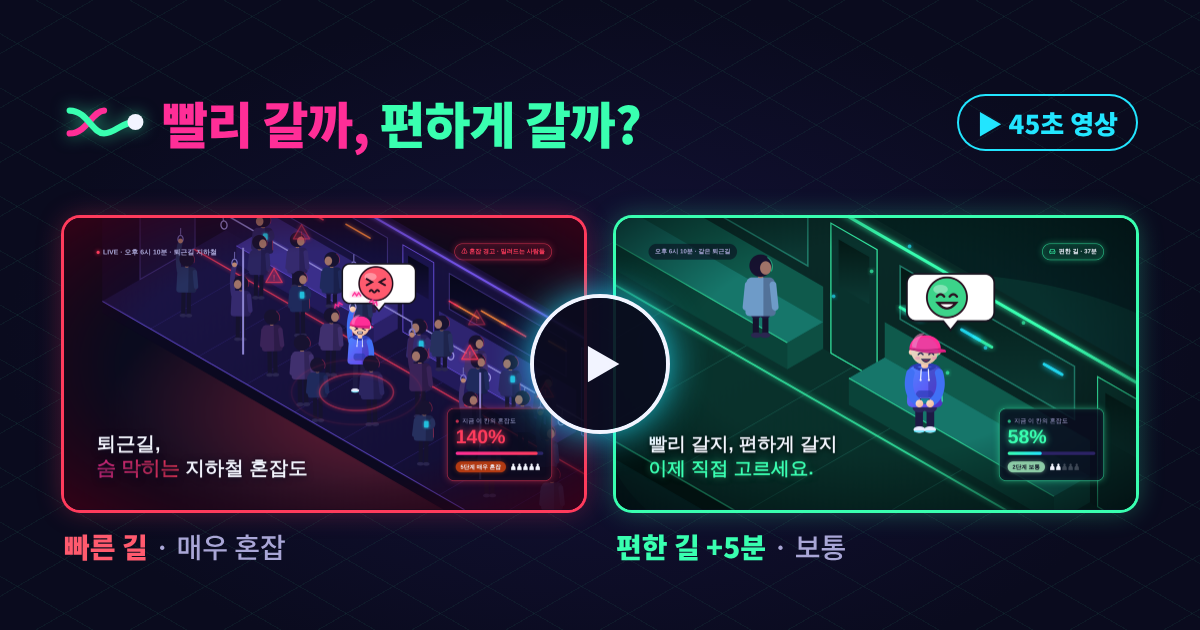
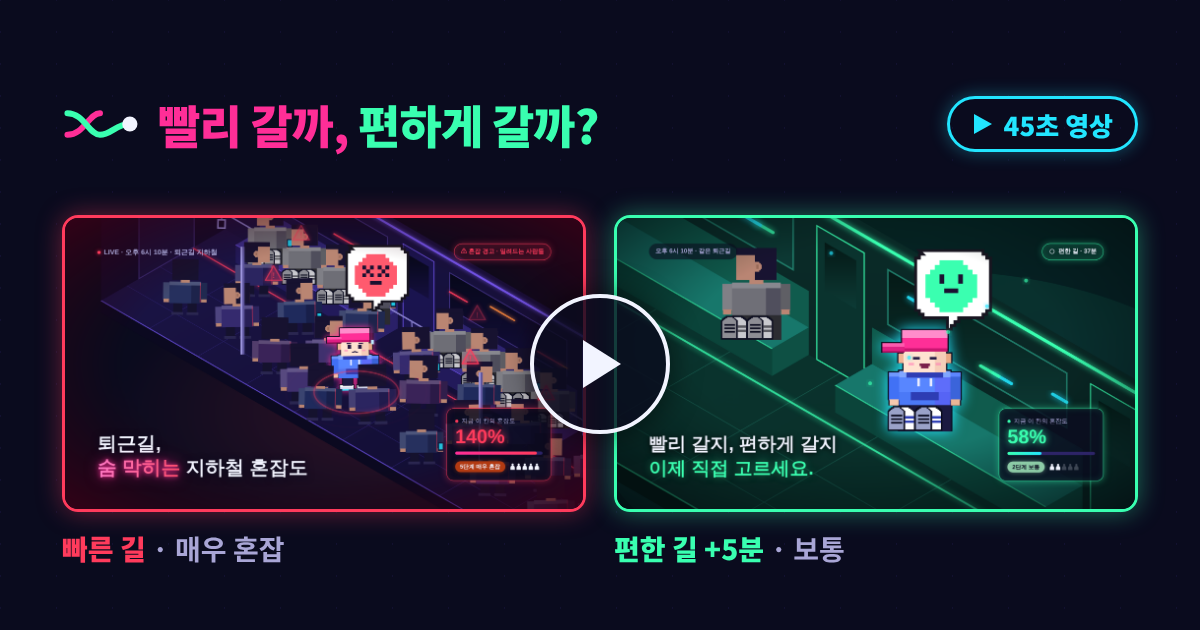
feat: 노선도에서 역 고르기

diff --git a/frontend/src/components/route/RouteMap.jsx b/frontend/src/components/route/RouteMap.jsx
@@ -1,0 +1,324 @@
+import { useEffect, useLayoutEffect, useRef, useState } from "react";
+import MAP from "../../data/metroMap.json";
+
+// 노선도에서 역 고르기
+//  - 처음에는 1~8호선 전체. 호선 칩을 누르면 그 노선만 선명하게 남고 화면이 그 노선에 맞춰집니다.
+//  - 노선을 고르면 환승역에서 갈아탈 노선이 한 칸만 선명한 꼬리로 보입니다.
+//  - 역을 누르면 「여기서 출발 / 여기로 도착」 창이 뜨고, 누르면 onPick("from" | "to", 역 이름)을 부릅니다.
+//  - 확대·축소: 버튼, 마우스 휠, 두 손가락. 이동: 끌기.
+//  노선도 좌표(metroMap.json)는 역 좌표 공공데이터로 배치를 잡고 꺾는 역만 직접 정해 만든 고정 파일입니다.
+
+const LINES = Object.keys(MAP.lines);
+const PAD = 0.6; // 범위 둘레 여백 (노선도 칸)
+const FS = 0.34; // metroMap.json의 이름 자리(label)를 계산한 글자 크기 (칸)
+
+// 범위 b=[x0, y0, x1, y1]이 화면(size: 가로·세로 px)에 꽉 차는 보기 영역.
+//  좌우 56px·위아래 28px를 비워 두어, 휴대폰처럼 좁은 화면에서도 끝 역 이름이 잘리지 않게 합니다.
+function fit(b, size, mx = 56, my = 28) {
+  const bw = b[2] - b[0] + PAD * 2, bh = b[3] - b[1] + PAD * 2;
+  const s = Math.max(bw / Math.max(1, size.w - mx * 2), bh / Math.max(1, size.h - my * 2)); // 1px = s칸
+  const w = size.w * s, h = size.h * s;
+  return { x: (b[0] + b[2]) / 2 - w / 2, y: (b[1] + b[3]) / 2 - h / 2, w, h };
+}
+
+export default function RouteMap({ onPick }) {
+  const box = useRef(null);
+  const svg = useRef(null);
+  const [size, setSize] = useState({ w: 800, h: 480 });
+  const [line, setLine] = useState(null); // null = 전체
+  const [view, setView] = useState(null);
+  const [picked, setPicked] = useState(null);
+  const pointers = useRef(new Map());
+  const gesture = useRef(null);
+  const moved = useRef(false);
+
+  // 화면 크기 재기
+  useLayoutEffect(() => {
+    const el = box.current;
+    const measure = () => setSize({ w: el.clientWidth, h: el.clientHeight });
+    measure();
+    const ro = new ResizeObserver(measure);
+    ro.observe(el);
+    return () => ro.disconnect();
+  }, []);
+
+  const home = fit(line ? MAP.lines[line].bounds : MAP.bounds, size);
+  // 노선을 바꾸거나 화면 비율이 바뀌면 그 범위에 맞춤
+  useEffect(() => {
+    setView(fit(line ? MAP.lines[line].bounds : MAP.bounds, size));
+    setPicked(null);
+    // eslint-disable-next-line react-hooks/exhaustive-deps
+  }, [line, size.w, size.h]);
+  const v = view || home;
+  const k = v.w / size.w; // 화면 1px = 노선도 k칸
+  const full = fit(MAP.bounds, size);
+
+  // 확대·축소: (cx, cy)를 중심으로 f배 (f < 1이면 확대)
+  function zoomAt(f, cx = v.x + v.w / 2, cy = v.y + v.h / 2, from = v) {
+    const w = Math.max(6, Math.min(full.w * 1.4, from.w * f));
+    const s = w / from.w;
+    setView({ x: cx - (cx - from.x) * s, y: cy - (cy - from.y) * s, w, h: from.h * s });
+  }
+  const toMap = (e) => {
+    const r = svg.current.getBoundingClientRect();
+    return [v.x + ((e.clientX - r.left) / r.width) * v.w, v.y + ((e.clientY - r.top) / r.height) * v.h];
+  };
+
+  // 마우스 휠로 확대 (화면이 같이 스크롤되지 않게 passive: false로 등록)
+  useEffect(() => {
+    const el = svg.current;
+    const onWheel = (e) => {
+      e.preventDefault();
+      const [cx, cy] = toMap(e);
+      zoomAt(e.deltaY > 0 ? 1.15 : 1 / 1.15, cx, cy);
+    };
+    el.addEventListener("wheel", onWheel, { passive: false });
+    return () => el.removeEventListener("wheel", onWheel);
+  });
+
+  // 끌어서 이동, 두 손가락으로 확대
+  function down(e) {
+    pointers.current.set(e.pointerId, [e.clientX, e.clientY]);
+    moved.current = false;
+    const ps = [...pointers.current.values()];
+    if (ps.length === 1) gesture.current = { type: "pan", start: ps[0], view: v };
+    if (ps.length === 2) {
+      const r = svg.current.getBoundingClientRect();
+      const mid = [(ps[0][0] + ps[1][0]) / 2, (ps[0][1] + ps[1][1]) / 2];
+      gesture.current = {
+        type: "pinch", view: v, dist: Math.hypot(ps[0][0] - ps[1][0], ps[0][1] - ps[1][1]),
+        center: [v.x + ((mid[0] - r.left) / r.width) * v.w, v.y + ((mid[1] - r.top) / r.height) * v.h],
+      };
+    }
+  }
+  function move(e) {
+    if (!pointers.current.has(e.pointerId)) return;
+    pointers.current.set(e.pointerId, [e.clientX, e.clientY]);
+    const g = gesture.current;
+    const ps = [...pointers.current.values()];
+    if (g?.type === "pan" && ps.length === 1) {
+      const dx = ps[0][0] - g.start[0], dy = ps[0][1] - g.start[1];
+      if (Math.hypot(dx, dy) > 6) moved.current = true;
+      if (moved.current) setView({ ...g.view, x: g.view.x - dx * k, y: g.view.y - dy * k });
+    }
+    if (g?.type === "pinch" && ps.length === 2) {
+      moved.current = true;
+      const d = Math.hypot(ps[0][0] - ps[1][0], ps[0][1] - ps[1][1]);
+      zoomAt(g.dist / d, g.center[0], g.center[1], g.view);
+    }
+  }
+  function up(e) {
+    pointers.current.delete(e.pointerId);
+    gesture.current = pointers.current.size === 1 ? { type: "pan", start: [...pointers.current.values()][0], view: v } : null;
+  }
+
+  function choose(name) {
+    if (moved.current) return; // 끌기가 끝나며 눌린 것은 무시
+    setPicked(name);
+  }
+
+  // 역 이름: 겹치지 않는 것만 보여 줌 (고른 역 → 환승역 → 나머지 순서)
+  const fsU = 12.5 * k; // 글자 크기 (칸)
+  const showAll = line || v.w < full.w * 0.55;
+  const want = MAP.stations.filter((s) => (line ? s.lines.includes(line) : s.lines.length > 1 || showAll));
+  want.sort((a, b) => (b.name === picked) - (a.name === picked) || b.lines.length - a.lines.length);
+  const boxes = [];
+  const labels = [];
+  for (const s of want) {
+    const [dx, dy, anchor] = s.label;
+    const tx = s.x + (dx / FS) * fsU, ty = s.y + (dy / FS) * fsU;
+    const w = s.name.length * fsU * 1.02;
+    const x0 = anchor === "start" ? tx : anchor === "end" ? tx - w : tx - w / 2;
+    const b = [x0, ty - fsU * 0.85, x0 + w, ty + fsU * 0.2];
+    if (boxes.some((c) => !(b[2] < c[0] || b[0] > c[2] || b[3] < c[1] || b[1] > c[3]))) continue;
+    boxes.push(b);
+    labels.push({ s, tx, ty, anchor });
+  }
+
+  const dim = (ls) => (line && !ls.includes(line) ? 0.14 : 1);
+  const lw = 6 * k;
+  const pickedSt = picked && MAP.stations.find((s) => s.name === picked);
+  const popX = pickedSt && Math.min(Math.max((pickedSt.x - v.x) / k, 110), size.w - 110);
+  const popY = pickedSt && (pickedSt.y - v.y) / k;
+
+  return (
+    <section aria-label="노선도에서 역 고르기" className="flex flex-col gap-3 rounded-2xl border border-[#22E5FF] bg-[#0C0A24] p-3 md:p-4">
+      <div className="grid grid-cols-5 gap-1.5 sm:flex sm:flex-wrap">
+        {[null, ...LINES].map((l) => {
+          const on = line === l;
+          return (
+            <button
+              key={l || "all"}
+              type="button"
+              aria-pressed={on}
+              onClick={() => setLine(l)}
+              className={`flex min-h-[36px] items-center justify-center gap-1.5 rounded-full border px-3 text-[13px] font-bold sm:text-[14px] ${
+                on ? "border-transparent text-white" : "border-[#2C2366] text-[#A9A6D6] hover:text-white"
+              }`}
+              style={on ? { background: l ? MAP.lines[l].color : "#22E5FF", color: l ? "#fff" : "#0A0B1E" } : undefined}
+            >
+              {l && <span className="h-2.5 w-2.5 shrink-0 rounded-full" style={{ background: on ? "#fff" : MAP.lines[l].color }} />}
+              {l || "전체"}
+            </button>
+          );
+        })}
+      </div>
+
+      <div ref={box} className="relative h-[440px] overflow-hidden rounded-xl bg-[#0A0B1E] md:h-[620px]">
+        <svg
+          ref={svg}
+          viewBox={`${v.x} ${v.y} ${v.w} ${v.h}`}
+          className="block h-full w-full touch-none select-none"
+          onPointerDown={down}
+          onPointerMove={move}
+          onPointerUp={up}
+          onPointerCancel={up}
+          onPointerLeave={up}
+          onClick={(e) => e.target === svg.current && !moved.current && setPicked(null)}
+        >
+          <defs>
+            {line &&
+              MAP.lines[line].tails.map((t, i) => {
+                const a = t.pts[0], b = t.pts[t.pts.length - 1];
+                return (
+                  <linearGradient key={i} id={`tail${i}`} gradientUnits="userSpaceOnUse" x1={a[0]} y1={a[1]} x2={b[0]} y2={b[1]}>
+                    <stop offset="0" stopColor={MAP.lines[t.line].color} />
+                    <stop offset="0.55" stopColor={MAP.lines[t.line].color} />
+                    <stop offset="1" stopColor={MAP.lines[t.line].color} stopOpacity="0" />
+                  </linearGradient>
+                );
+              })}
+          </defs>
+
+          {/* 노선: 고른 노선은 맨 위에 굵게 */}
+          {[...LINES.filter((l) => l !== line), ...(line ? [line] : [])].map((l) =>
+            MAP.lines[l].shapes.map((p, i) => (
+              <polyline
+                key={`${l}${i}`}
+                points={p.join(" ")}
+                fill="none"
+                stroke={MAP.lines[l].color}
+                strokeWidth={l === line ? lw * 1.5 : lw}
+                strokeLinejoin="round"
+                strokeLinecap="round"
+                opacity={dim([l])}
+              />
+            )),
+          )}
+          {/* 두 노선이 함께 지나는 구간은 나란히 두 줄로 */}
+          {MAP.shared.map(({ a, b, lines }, i) => {
+            const L = Math.hypot(b[0] - a[0], b[1] - a[1]) || 1;
+            const nx = -(b[1] - a[1]) / L, ny = (b[0] - a[0]) / L;
+            return (
+              <g key={i}>
+                <line x1={a[0]} y1={a[1]} x2={b[0]} y2={b[1]} stroke="#0A0B1E" strokeWidth={lw * 2.2} />
+                {lines.map((l, j) => {
+                  const off = (j - (lines.length - 1) / 2) * lw * 1.1;
+                  return (
+                    <line key={l} x1={a[0] + nx * off} y1={a[1] + ny * off} x2={b[0] + nx * off} y2={b[1] + ny * off}
+                      stroke={MAP.lines[l].color} strokeWidth={lw} opacity={dim([l])} />
+                  );
+                })}
+              </g>
+            );
+          })}
+          {/* 환승 갈림 꼬리 */}
+          {line &&
+            MAP.lines[line].tails.map((t, i) => (
+              <polyline key={i} points={t.pts.join(" ")} fill="none" stroke={`url(#tail${i})`} strokeWidth={lw * 1.2} strokeLinecap="round" strokeLinejoin="round" />
+            ))}
+
+          {/* 역: 환승역은 큰 흰 동그라미. 누르기 쉽게 투명한 원을 겹침(옆 역과 겹치지 않을 만큼만 크게) */}
+          {MAP.stations.map((s) => {
+            const tr = s.lines.length > 1;
+            const op = dim(s.lines);
+            return (
+              <g
+                key={s.name}
+                role="button"
+                tabIndex={op === 1 ? 0 : -1}
+                aria-label={`${s.name}역 (${s.lines.join("·")})`}
+                onClick={() => op === 1 && choose(s.name)}
+                onKeyDown={(e) => e.key === "Enter" && op === 1 && setPicked(s.name)}
+                className={op === 1 ? "cursor-pointer outline-none" : "pointer-events-none"}
+                opacity={op}
+              >
+                <circle cx={s.x} cy={s.y} r={Math.min(14 * k, 0.45)} fill="transparent" />
+                {tr ? (
+                  <circle cx={s.x} cy={s.y} r={6.5 * k} fill="#F2F4FF" stroke="#0A0B1E" strokeWidth={2.5 * k} />
+                ) : (
+                  <circle cx={s.x} cy={s.y} r={3.8 * k} fill="#0A0B1E" stroke="#F2F4FF" strokeWidth={1.8 * k} />
+                )}
+              </g>
+            );
+          })}
+          {pickedSt && (
+            <circle cx={pickedSt.x} cy={pickedSt.y} r={15 * k} fill="#22E5FF33" stroke="#22E5FF" strokeWidth={3 * k} pointerEvents="none" />
+          )}
+
+          {/* 역 이름: 글자 뒤에 바탕색 테두리를 둘러 노선 위에서도 읽히게 */}
+          {labels.map(({ s, tx, ty, anchor }) => (
+            <text
+              key={s.name}
+              x={tx}
+              y={ty}
+              textAnchor={anchor}
+              fontSize={fsU}
+              fontWeight={s.lines.length > 1 ? 900 : 700}
+              fill={s.name === picked ? "#22E5FF" : "#F2F4FF"}
+              stroke="#0A0B1E"
+              strokeWidth={fsU * 0.28}
+              paintOrder="stroke"
+              strokeLinejoin="round"
+              pointerEvents="none"
+            >
+              {s.name}
+            </text>
+          ))}
+        </svg>
+
+        {/* 역을 누르면 뜨는 창 */}
+        {pickedSt && (
+          <div
+            role="dialog"
+            aria-label={`${pickedSt.name}역`}
+            className="absolute z-10 flex w-[220px] flex-col gap-2 rounded-xl border border-[#22E5FF] bg-[#120E2E] p-3 shadow-[0_10px_30px_#000c]"
+            style={{ left: popX, top: popY > 150 ? popY - 24 : popY + 24, transform: popY > 150 ? "translate(-50%, -100%)" : "translateX(-50%)" }}
+          >
+            <p className="flex items-center gap-1.5 text-[16px] font-black">
+              {pickedSt.name}
+              {pickedSt.lines.map((l) => (
+                <span key={l} className="h-2.5 w-2.5 rounded-full" style={{ background: MAP.lines[l].color }} />
+              ))}
+              <span className="text-[12px] font-normal text-[#A9A6D6]">{pickedSt.lines.map((l) => l.replace("호선", "")).join("·")}호선</span>
+            </p>
+            <div className="flex gap-1.5">
+              <button type="button" onClick={() => { onPick("from", pickedSt.name); setPicked(null); }}
+                className="min-h-[40px] flex-1 rounded-full bg-[#22E5FF] text-[14px] font-black text-[#0A0B1E]">
+                여기서 출발
+              </button>
+              <button type="button" onClick={() => { onPick("to", pickedSt.name); setPicked(null); }}
+                className="min-h-[40px] flex-1 rounded-full border border-[#22E5FF] text-[14px] font-black text-[#22E5FF]">
+                여기로 도착
+              </button>
+            </div>
+          </div>
+        )}
+
+        <div className="absolute bottom-3 right-3 flex flex-col gap-1.5">
+          {[["＋", "확대", () => zoomAt(1 / 1.4)], ["－", "축소", () => zoomAt(1.4)], ["⤢", "처음 크기", () => setView(home)]].map(([t, label, fn]) => (
+            <button key={label} type="button" aria-label={label} onClick={fn}
+              className="flex h-10 w-10 items-center justify-center rounded-lg border border-[#2C2366] bg-[#120E2E] text-[18px] font-bold hover:border-[#22E5FF]">
+              {t}
+            </button>
+          ))}
+        </div>
+      </div>
+
+      <p className="flex flex-wrap justify-between gap-x-4 gap-y-1 text-[12px] text-[#6E6A9E]">
+        <span>역을 누르면 출발역·도착역으로 고를 수 있어요 · 끌어서 이동, 휠·두 손가락으로 확대</span>
+        <span>{MAP.source}</span>
+      </p>
+    </section>
+  );
+}

diff --git a/frontend/src/pages/RouteFinder.jsx b/frontend/src/pages/RouteFinder.jsx
@@ -4,6 +4,7 @@ import Phrases from "../components/Phrases.jsx";
 import { useApi, LoadState } from "../api.jsx";
 import StationInput from "../components/route/StationInput.jsx";
 import RouteResult from "../components/route/RouteResult.jsx";
+import RouteMap from "../components/route/RouteMap.jsx";
 import AIGuide from "../components/guide/AIGuide.jsx";
 import { DAYS, nextDate } from "../components/route/routeUtils.js";
 
@@ -19,6 +20,7 @@ export default function RouteFinder() {
   };
   const [form, setForm] = useState(asked);
   const [comfort, setComfort] = useState(50); // 0 빠르게 ~ 100 편하게
+  const [showMap, setShowMap] = useState(false); // 노선도에서 고르기 열림
   const set = (key) => (value) => setForm((f) => ({ ...f, [key]: value }));
 
   const ready = asked.from && asked.to;
@@ -63,6 +65,16 @@ export default function RouteFinder() {
           </button>
           <StationInput id="to" label="도착역" value={form.to} onChange={set("to")} />
         </div>
+
+        <button
+          type="button"
+          aria-expanded={showMap}
+          onClick={() => setShowMap((o) => !o)}
+          className="-mt-2 self-start rounded-full border border-[#2C2366] px-4 py-2 text-[15px] font-bold text-[#22E5FF] hover:border-[#22E5FF]"
+        >
+          🗺 노선도에서 고르기 {showMap ? "▴" : "▾"}
+        </button>
+        {showMap && <RouteMap onPick={(key, name) => set(key)(name)} />}
 
         <div className="grid gap-6 md:grid-cols-2">
           <fieldset className="flex flex-col gap-2">

diff --git a/frontend/src/data/devlog.js b/frontend/src/data/devlog.js
@@ -4,8 +4,18 @@
 // 문장 속에 {#FF2E97}처럼 색 코드를 중괄호로 감싸 쓰면 색상표 네모와 코드로 보입니다.
 
 export const DEVLOG = [
-    {
-    date: "2026-10-23",
+  {
+    date: "2026-10-22",
+    title: "노선도에서 역 고르기",
+    pr: 15,
+    items: [
+      "기획 및 발표 담당자의 아이디어로 경로 찾기 화면에 호선별로 볼 수 있는 1~8호선 노선도를 넣고, 역을 눌러 출발역과 도착역을 고를 수 있게 했습니다.",
+      "호선을 고르면 그 노선만 선명하게 남고, 환승역에서는 갈아탈 노선이 짧은 꼬리로 보입니다.",
+      "쇼릴 공유 그림을 바뀐 그림체로 다시 만들고, 개발 기록의 날짜를 실제로 올린 날로 바로잡았습니다.",
+    ],
+  },
+  {
+    date: "2026-10-21",
     title: "게임 두 개와 쇼릴 그림체 통일",
     pr: 14,
     items: [
@@ -15,7 +25,7 @@ export const DEVLOG = [
     ],
   },
   {
-    date: "2026-10-22",
+    date: "2026-10-21",
     title: "AI 안내 도우미 미리보기",
     pr: 13,
     items: [

diff --git a/frontend/public/reel.html b/frontend/public/reel.html
@@ -13,7 +13,7 @@
 <meta property="og:url" content="https://easy-nav-iota.vercel.app/reel">
 <meta property="og:title" content="빨리 갈까, 편하게 갈까? · 45초 영상">
 <meta property="og:description" content="몇 분 더 쓰면 얼마나 덜 붐빌까? 45초 영상으로 확인해 보세요.">
-<meta property="og:image" content="https://easy-nav-iota.vercel.app/og-reel.png?v=2">
+<meta property="og:image" content="https://easy-nav-iota.vercel.app/og-reel.png?v=3">
 <meta property="og:image:width" content="1200">
 <meta property="og:image:height" content="630">
 <meta name="twitter:card" content="summary_large_image">
